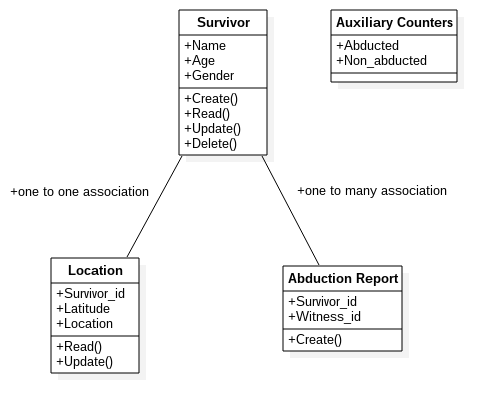
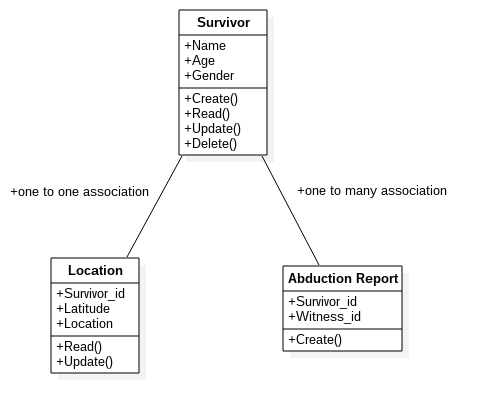
Documenting stuff
Last commit? xD

diff --git a/README.md b/README.md
@@ -8,16 +8,16 @@ All the problem specifications, as the necessarry material to solve it can be fo
 
 ## How it was planned
 
-Once upon a time I was looking for a way to make a more consistent development with a REST api approach and a client to consume this api and found a very interesting idea: you should start by making sure your api is consistent, then you move to the client-side. Later, reading [How to Design Programs](https://htdp.org), I found another interesting conecpt: programs treat real world information as data, so ycou should start by planning how to represent it in a computational world. With these two concepts in mind, first thing done was defining models, which makes it possible that the api is consistent.
+Once upon a time I was looking for a way to make a more consistent development with a REST api approach and a client to consume this api and found a very interesting idea: you should start by making sure your api is consistent, then you move to the client-side. Later, reading [How to Design Programs](https://htdp.org), I found another interesting conecpt: programs treat real world information as data, so you should start by planning how to represent information in a computational world. With these two concepts in mind, first thing done was defining models, which makes it possible that the api is consistent.
 
 ### Defining Models
 
 At first, I had the following models:
 
-![first database models](https://raw.githubusercontent.com/PuckmanXY/X-SUNIT/test/location-as-model/first_model_diagram.png?token=AZkDI85UJI6Pen68Tes_lBFXzi4od_C0ks5bchkOwA%3D%3D)
+![first database models](https://raw.githubusercontent.com/PuckmanXY/X-SUNIT/test/location-as-model/first_model_diagram.png)
 
-Two models were everything I needed to represent all the information the problem wanted. It became a problem when I realized updating a survivor location and updating a survivor information isn't the same thing to the problem (keep in mind that the real-world-information-as-data thing also applies to real world actions and functions/methods/routines, their representations in a computational world). The solution was clear: create a model to locations. Then, another problem: after a few commits I found out about the [rails n + 1 problem](https://semaphoreci.com/blog/2017/08/09/faster-rails-eliminating-n-plus-one-queries.html), which made worry about consulting the database. From the beggining, I had the idea to keep auxiliary counters in database, just didn't know if it was worth. When I read about this, even not being a problem I had, I made sure to create a new table and consult database once, instead of getting data from it, then iterating over an array, filtering abducted survivors and etc... It's just avoidable complication. With these ideas, the models diagram became this:
-![final database models](https://raw.githubusercontent.com/PuckmanXY/X-SUNIT/test/location-as-model/final_model_diagram.png?token=AZkDI8mrsk2N2mKnk92_Fl-nvigxHdznks5bchkiwA%3D%3D)
+Two models were everything I needed to represent all the information the problem wanted. It became a problem when I realized updating a survivor location and updating a survivor information isn't the same thing to the problem (keep in mind that the real-world-information-as-data thing also applies to real world actions and functions/methods/routines - their representations in a computational world). The solution was clear: create a model to locations. 
+![final database models](https://raw.githubusercontent.com/PuckmanXY/X-SUNIT/test/location-as-model/final_model_diagram.png)
 
 ### Adapting to REST pattern
 
@@ -49,7 +49,30 @@ At first, I tried to define the route for this by hand since I wasn't used to th
 
 ### Listing resources
 
-For this, I made sure to NOT iterate over the entire survivors array to count abducted and non-abducted survivors. Just consulting auxiliary_counters table gives me everything I need to calculate it.
+For getting the percentages requested, I scoped the abducted and non_abducted survivors in my [survivors.rd](app/models/survivor), which generates an ActiveRecord::Relation, and I'm quite sure rails takes care of caching it, so I don't have to worry that much about performance here, rails will do the trick.
+
+## Ok, but how do I use it?
+
+I plan on deploying it, but if you can't wait for an alien apocalypse, then you may try:
+
+1. Clone the repository
+    
+    $ git clone https://github.com/puckmanxy/x-sunit
+
+2. Install dependencies
+
+    $ bundle install
+
+3. Run migrations
+
+    $ rake db:migrate
+
+4. In the folder you cloned the repository, type:
+
+    $ rails s
+
+Then go to next section and try it.
+OBS - I strongly suggest you test it with Postman or Insomnia or whatever you may want to use for testing apis.
 
 ## And what about using the API?
 
@@ -61,7 +84,7 @@ Route '/api/v1/survivors' gives access to a CRUD in survivors model, following R
 
     GET /api/v1/survivors
 
-returns a list of all survivors sorted by name
+returns response.data.survivors, an array of survivors sorted by name
 
     POST /api/v1/survivors
 
@@ -89,11 +112,11 @@ A location is a survivor atribute, so:
 
     GET /api/v1/survivors/:survivor_id/location
 
-returns a response with the the needed information about the survivor location
+returns response.data.location with the the needed information about the survivor location
 
     UPDATE /api/v1/survivors/:survivor_id/location
 
-updates the survivor, referenced by id, location as long as a JSON containing the new latitude and longitude is passed in the body of requisition.
+updates the survivor - referenced by id - location as long as a JSON containing the new latitude and longitude is passed in the body of requisition.
 
 ### Abduction Reports
 
@@ -109,8 +132,14 @@ the witness must send a JSON containing its id in the body of the requisition, l
 
 ### General information
 
-Say you just want to know about quantities and not worry about names, ages or locations. We cover you, just get the endpoint
+Say you just want to know about quantities and percentages and not to worry about names, ages or locations. We cover you, just get the endpoint
 
     GET /api/v1/general-information
 
-and you have the needed information in the body of the response.
+and you have the needed information in response.data.
+
+## And about the avaliation?
+
+Well, this challenge really made me try my best. I spent hours learning how to do stuff in a language I never used before and I'm really into Rails, even with a node-mind, it wasn't that hard to code this, since Rails really helps the programmer.
+
+At first, I was excited about the new language, so I assume I made some mistakes when modeling database, but it was necessarry, 'cause I could see that if a database isn't well defined, then a whole system may get structure problems. The most important point about doing this was how to model things... Learning to code in Rails came naturally as I needed to implement things, and I'm really satisfied about it.
